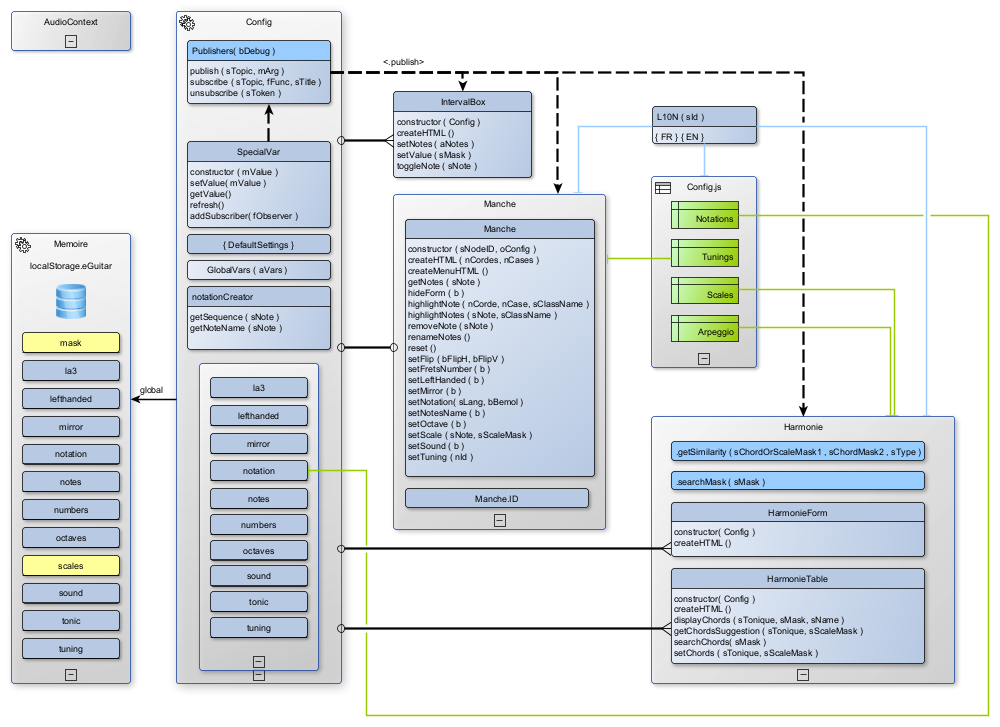
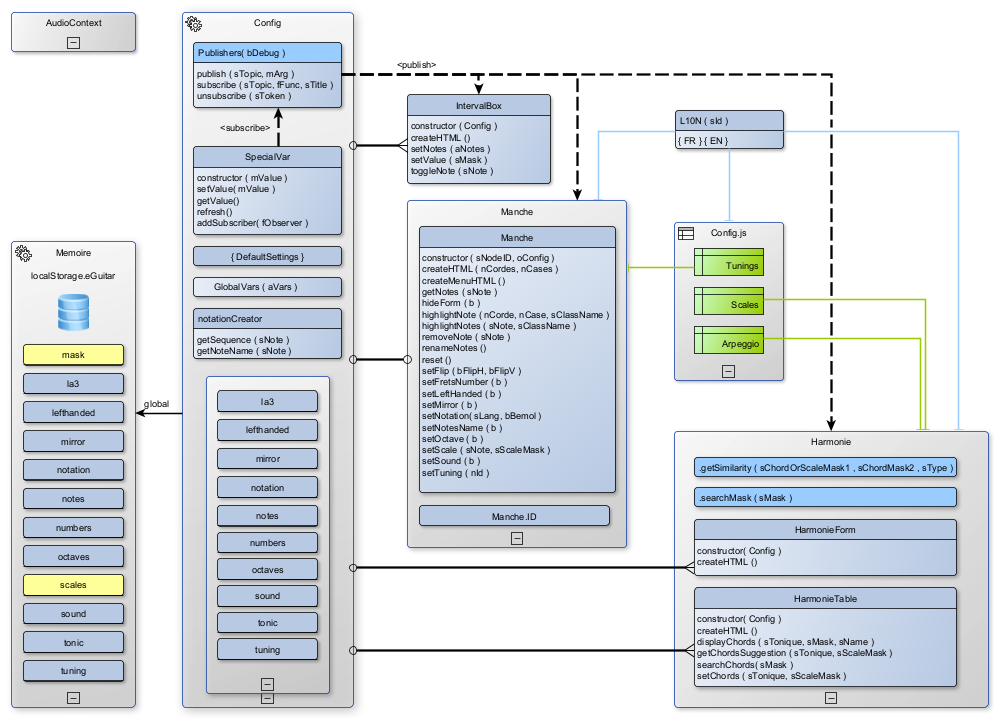
doc + audio bug fixed

diff --git a/js/audio.js b/js/audio.js
@@ -18,7 +18,7 @@ var g = null
 	if( ! Math.ceil10 ) Math.ceil10 =function( value, exp ){ return decimalAdjust('ceil', value, exp)}
 })();
 
-var tone = function( sNoteOctave ){
+var tone = function( sNoteOctave, nFreqLa ){
 	let oIndex = {
 		'C':0,
 		'C#':1,'C♯':1,'Db':1,'D♭':1,
@@ -53,19 +53,17 @@ var tone = function( sNoteOctave ){
 		}
 	let nIndex = oIndex[ sNote ] - 9
 	let n = nIndex + 12 * ( nOctave - 3 )
-	return Math.round10( GlobalVars.la3.getValue() * Math.pow( Math.pow( 2, 1/12 ), n ), -2 )
+	return Math.round10( nFreqLa * Math.pow( Math.pow( 2, 1/12 ), n ), -2 )
 	}
 
 //Primary function
-playTone = (frequency, type ) => {
+playTone = ( sNoteOctave, nFreqLa ) => {
 	if( ! context ) context = new AudioContext()
-	if( frequency === undefined ) frequency = 440
-	if( type === undefined ) type = "sine"
 	o = context.createOscillator()
 	g = context.createGain()
 	o.connect(g)
-	o.type = type
-	o.frequency.value = tone( frequency )
+	o.type = "sine"
+	o.frequency.value = tone( sNoteOctave, nFreqLa )
 	g.connect( context.destination )
 	g.gain.setValueAtTime( g.gain.value, context.currentTime )
 	g.gain.linearRampToValueAtTime( 0.0001, context.currentTime + 1.000 )

diff --git a/js/scripts.js b/js/scripts.js
@@ -117,6 +117,13 @@ getConfig =( function (){
 	// Etend les variables spéciales 'notation'
 	// -> notationCreator.call( AugmentedObject )
 	let notationCreator = function(){
+		const Notations ={
+			'♯':{	FR:['La',	'La♯',	'Si',	'Do',	'Do♯',	'Ré',	'Ré♯',	'Mi',	'Fa',	'Fa♯',	'Sol',	'Sol♯'],
+					EN:['A',	'A♯',	'B',	'C',	'C♯',	'D',	'D♯',	'E',	'F',	'F♯',	'G',	'G♯']},
+			'♭':{	FR:['La',	'Si♭',	'Si',	'Do',	'Ré♭',	'Ré',	'Mi♭',	'Mi',	'Fa',	'Sol♭',	'Sol',	'La♭'],
+					EN:['A',	'B♭',	'B',	'C',	'D♭',	'D',	'E♭',	'E',	'F',	'G♭',	'G',	'A♭']}
+			}
+	
 		this.getSequence =function( sNote ){
 			var a = this.getValue()
 			if( ! sNote ){
@@ -447,7 +454,7 @@ class Manche {
 			e.classList.add( sClassName )
 			let sNote = e.innerHTML, sOctave = e.octave
 			e.onmouseover = function(){
-				if( that.Config.sound.getValue()) playTone( sNote+sOctave )
+				if( that.Config.sound.getValue()) playTone( sNote+sOctave, that.Config.la3.getValue() )
 				}
 			})
 		}

diff --git a/js/config.js b/js/config.js
@@ -1,11 +1,5 @@
 let LA3 = Memoire.get('la3')||440
 
-const Notations ={
-	'♯':{	FR:['La',	'La♯',	'Si',	'Do',	'Do♯',	'Ré',	'Ré♯',	'Mi',	'Fa',	'Fa♯',	'Sol',	'Sol♯'],
-			EN:['A',	'A♯',	'B',	'C',	'C♯',	'D',	'D♯',	'E',	'F',	'F♯',	'G',	'G♯']},
-	'♭':{	FR:['La',	'Si♭',	'Si',	'Do',	'Ré♭',	'Ré',	'Mi♭',	'Mi',	'Fa',	'Sol♭',	'Sol',	'La♭'],
-			EN:['A',	'B♭',	'B',	'C',	'D♭',	'D',	'E♭',	'E',	'F',	'G♭',	'G',	'A♭']}
-	}
 const Tunings =[
 	["Mi,La,Ré,Sol,Si,Mi|0,0,0,0,0,0",'E'],
 	["Ré,La,Ré,Sol,Si,Mi|-1,0,0,0,0,0",'Dropped D'],
